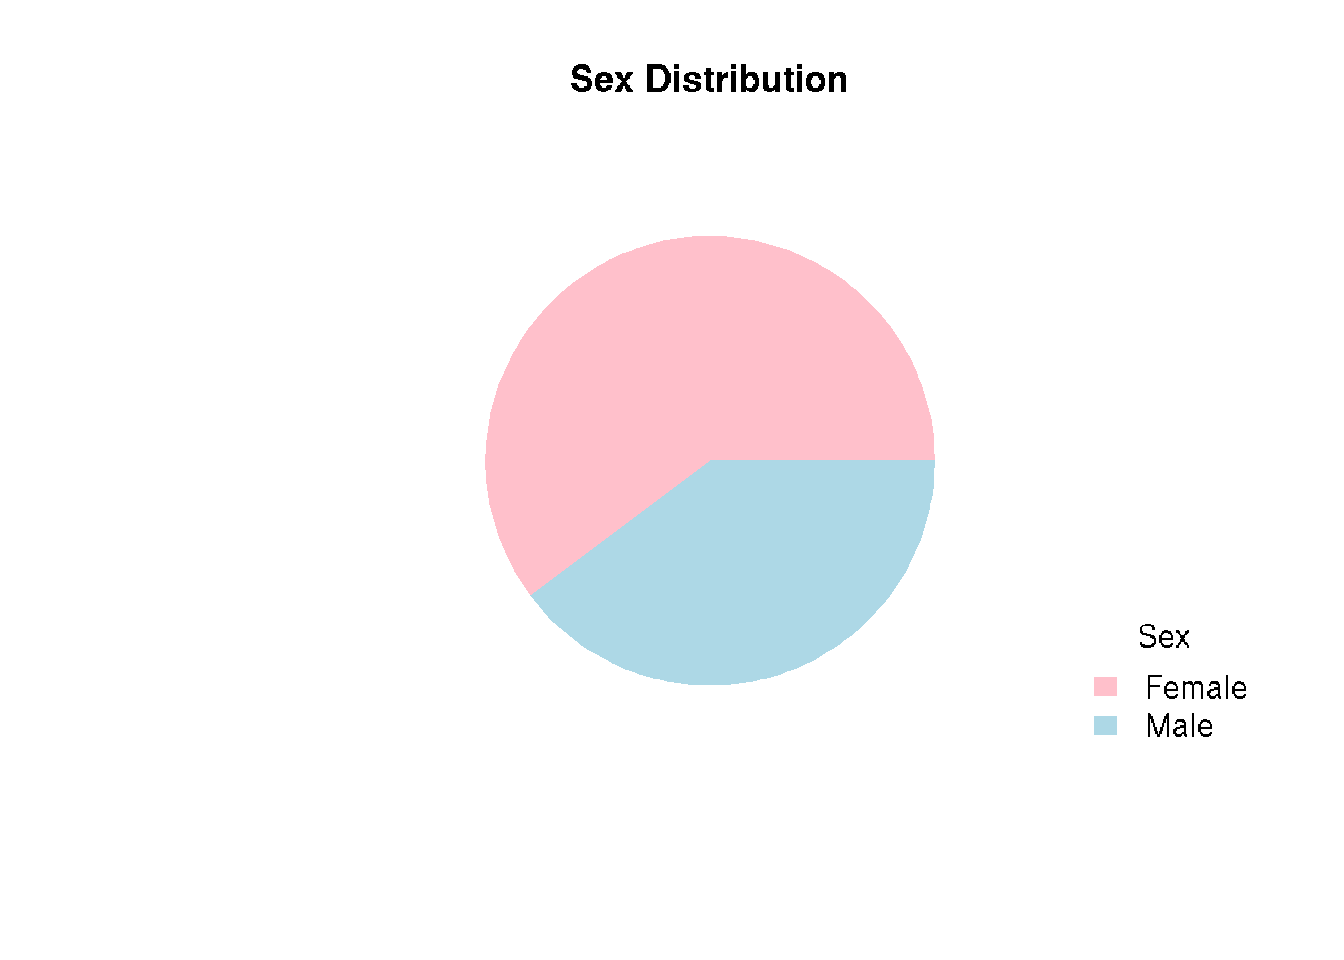
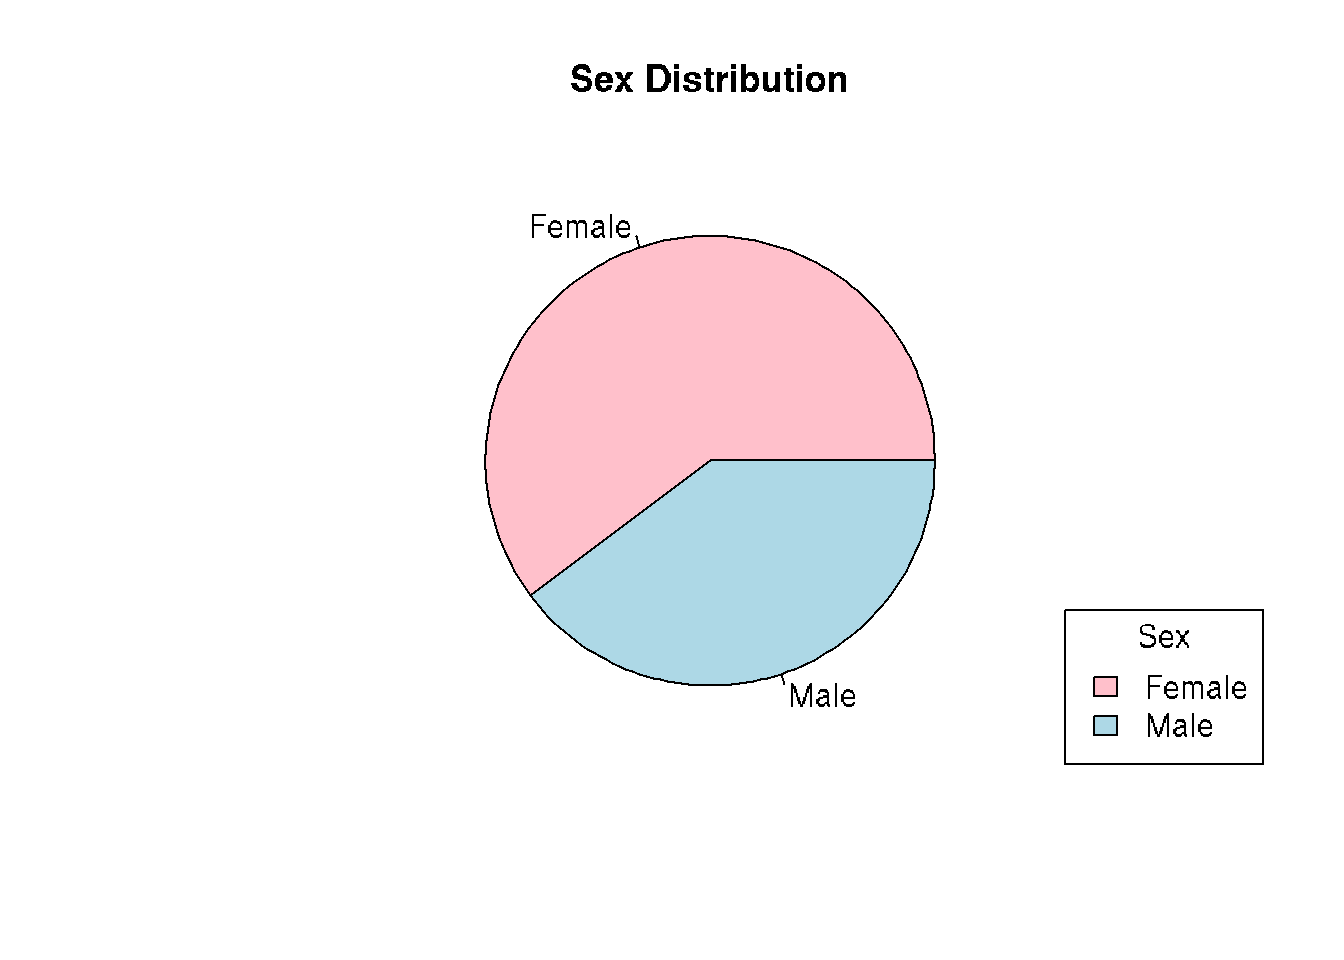
Built site for gh-pages

diff --git a/comparison_options.html b/comparison_options.html
@@ -455,7 +455,6 @@ pre > code.sourceCode > span > a:first-child::before { text-decoration: underlin
 
 
 
-
 ::: {.cell}
 ::: {.cell-output .cell-output-stderr}
 
@@ -489,7 +488,6 @@ The following objects are masked from 'package:base':
 
 :::
 :::
-
 
 
 
@@ -916,16 +914,12 @@ Female   Male
 <div class="cell">
 <div class="sourceCode cell-code" id="cb43"><pre class="sourceCode r code-with-copy"><code class="sourceCode r"><span id="cb43-1"><a href="#cb43-1" aria-hidden="true" tabindex="-1"></a><span class="co"># base R</span></span>
 <span id="cb43-2"><a href="#cb43-2" aria-hidden="true" tabindex="-1"></a><span class="fu">pie</span>(sex_counts,</span>
-<span id="cb43-3"><a href="#cb43-3" aria-hidden="true" tabindex="-1"></a>    <span class="at">labels=</span><span class="cn">NA</span>,</span>
-<span id="cb43-4"><a href="#cb43-4" aria-hidden="true" tabindex="-1"></a>    <span class="at">col =</span> <span class="fu">c</span>(<span class="st">"pink"</span>, <span class="st">"lightblue"</span>),</span>
-<span id="cb43-5"><a href="#cb43-5" aria-hidden="true" tabindex="-1"></a>    <span class="at">main =</span> <span class="st">"Sex Distribution"</span>,</span>
-<span id="cb43-6"><a href="#cb43-6" aria-hidden="true" tabindex="-1"></a>    <span class="at">border=</span><span class="cn">NA</span>)</span>
-<span id="cb43-7"><a href="#cb43-7" aria-hidden="true" tabindex="-1"></a><span class="fu">legend</span>(<span class="st">"bottomright"</span>,</span>
-<span id="cb43-8"><a href="#cb43-8" aria-hidden="true" tabindex="-1"></a>       <span class="at">legend =</span> <span class="fu">names</span>(sex_counts),</span>
-<span id="cb43-9"><a href="#cb43-9" aria-hidden="true" tabindex="-1"></a>       <span class="at">fill =</span> <span class="fu">c</span>(<span class="st">"pink"</span>, <span class="st">"lightblue"</span>),</span>
-<span id="cb43-10"><a href="#cb43-10" aria-hidden="true" tabindex="-1"></a>       <span class="at">border=</span><span class="cn">NA</span>,</span>
-<span id="cb43-11"><a href="#cb43-11" aria-hidden="true" tabindex="-1"></a>       <span class="at">bty =</span> <span class="st">"n"</span>,</span>
-<span id="cb43-12"><a href="#cb43-12" aria-hidden="true" tabindex="-1"></a>       <span class="at">title=</span><span class="st">"Sex"</span>)</span></code><button title="Copy to Clipboard" class="code-copy-button"><i class="bi"></i></button></pre></div>
+<span id="cb43-3"><a href="#cb43-3" aria-hidden="true" tabindex="-1"></a>    <span class="at">col =</span> <span class="fu">c</span>(<span class="st">"pink"</span>, <span class="st">"lightblue"</span>),</span>
+<span id="cb43-4"><a href="#cb43-4" aria-hidden="true" tabindex="-1"></a>    <span class="at">main =</span> <span class="st">"Sex Distribution"</span>)</span>
+<span id="cb43-5"><a href="#cb43-5" aria-hidden="true" tabindex="-1"></a><span class="fu">legend</span>(<span class="st">"bottomright"</span>,</span>
+<span id="cb43-6"><a href="#cb43-6" aria-hidden="true" tabindex="-1"></a>       <span class="at">legend =</span> <span class="fu">names</span>(sex_counts),</span>
+<span id="cb43-7"><a href="#cb43-7" aria-hidden="true" tabindex="-1"></a>       <span class="at">fill =</span> <span class="fu">c</span>(<span class="st">"pink"</span>, <span class="st">"lightblue"</span>),</span>
+<span id="cb43-8"><a href="#cb43-8" aria-hidden="true" tabindex="-1"></a>       <span class="at">title=</span><span class="st">"Sex"</span>)</span></code><button title="Copy to Clipboard" class="code-copy-button"><i class="bi"></i></button></pre></div>
 </div>
 </div><div class="column" style="width:50%;">
 <div class="cell">
@@ -965,6 +959,7 @@ Female   Male
 </div>
 </div>
 </div>
+<p>Notice the slight differences between the two plots. What arguments should be included to the base R version to make it look like the ggplot2 version (or visa versa)?</p>
 <p>Now let’s move on to a boxplot that compares the Weights of Males vs Females for the 2010 dataset.</p>
 <div class="columns">
 <div class="column" style="width:50%;">